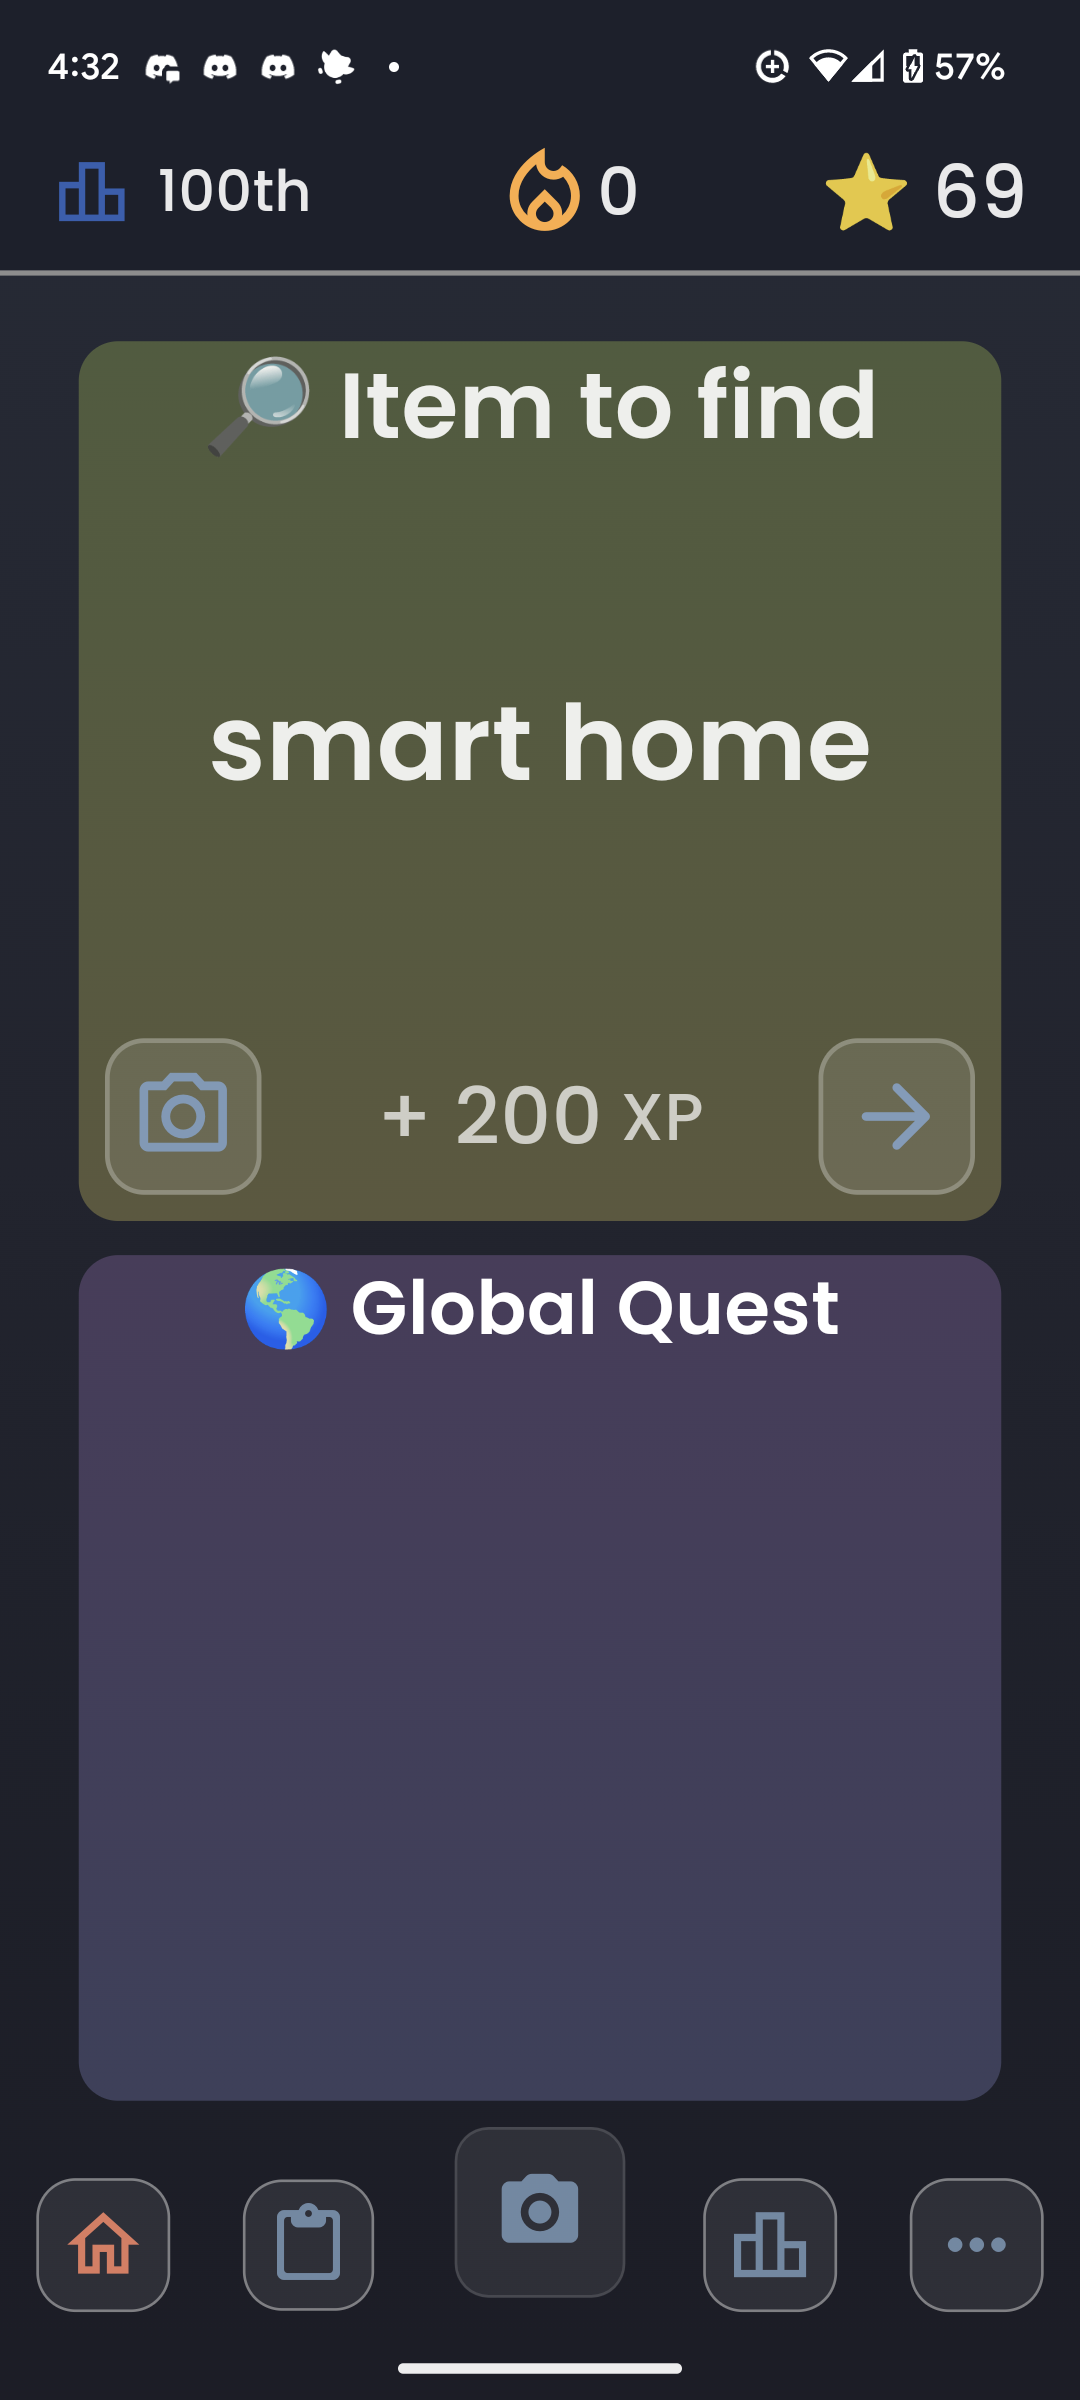
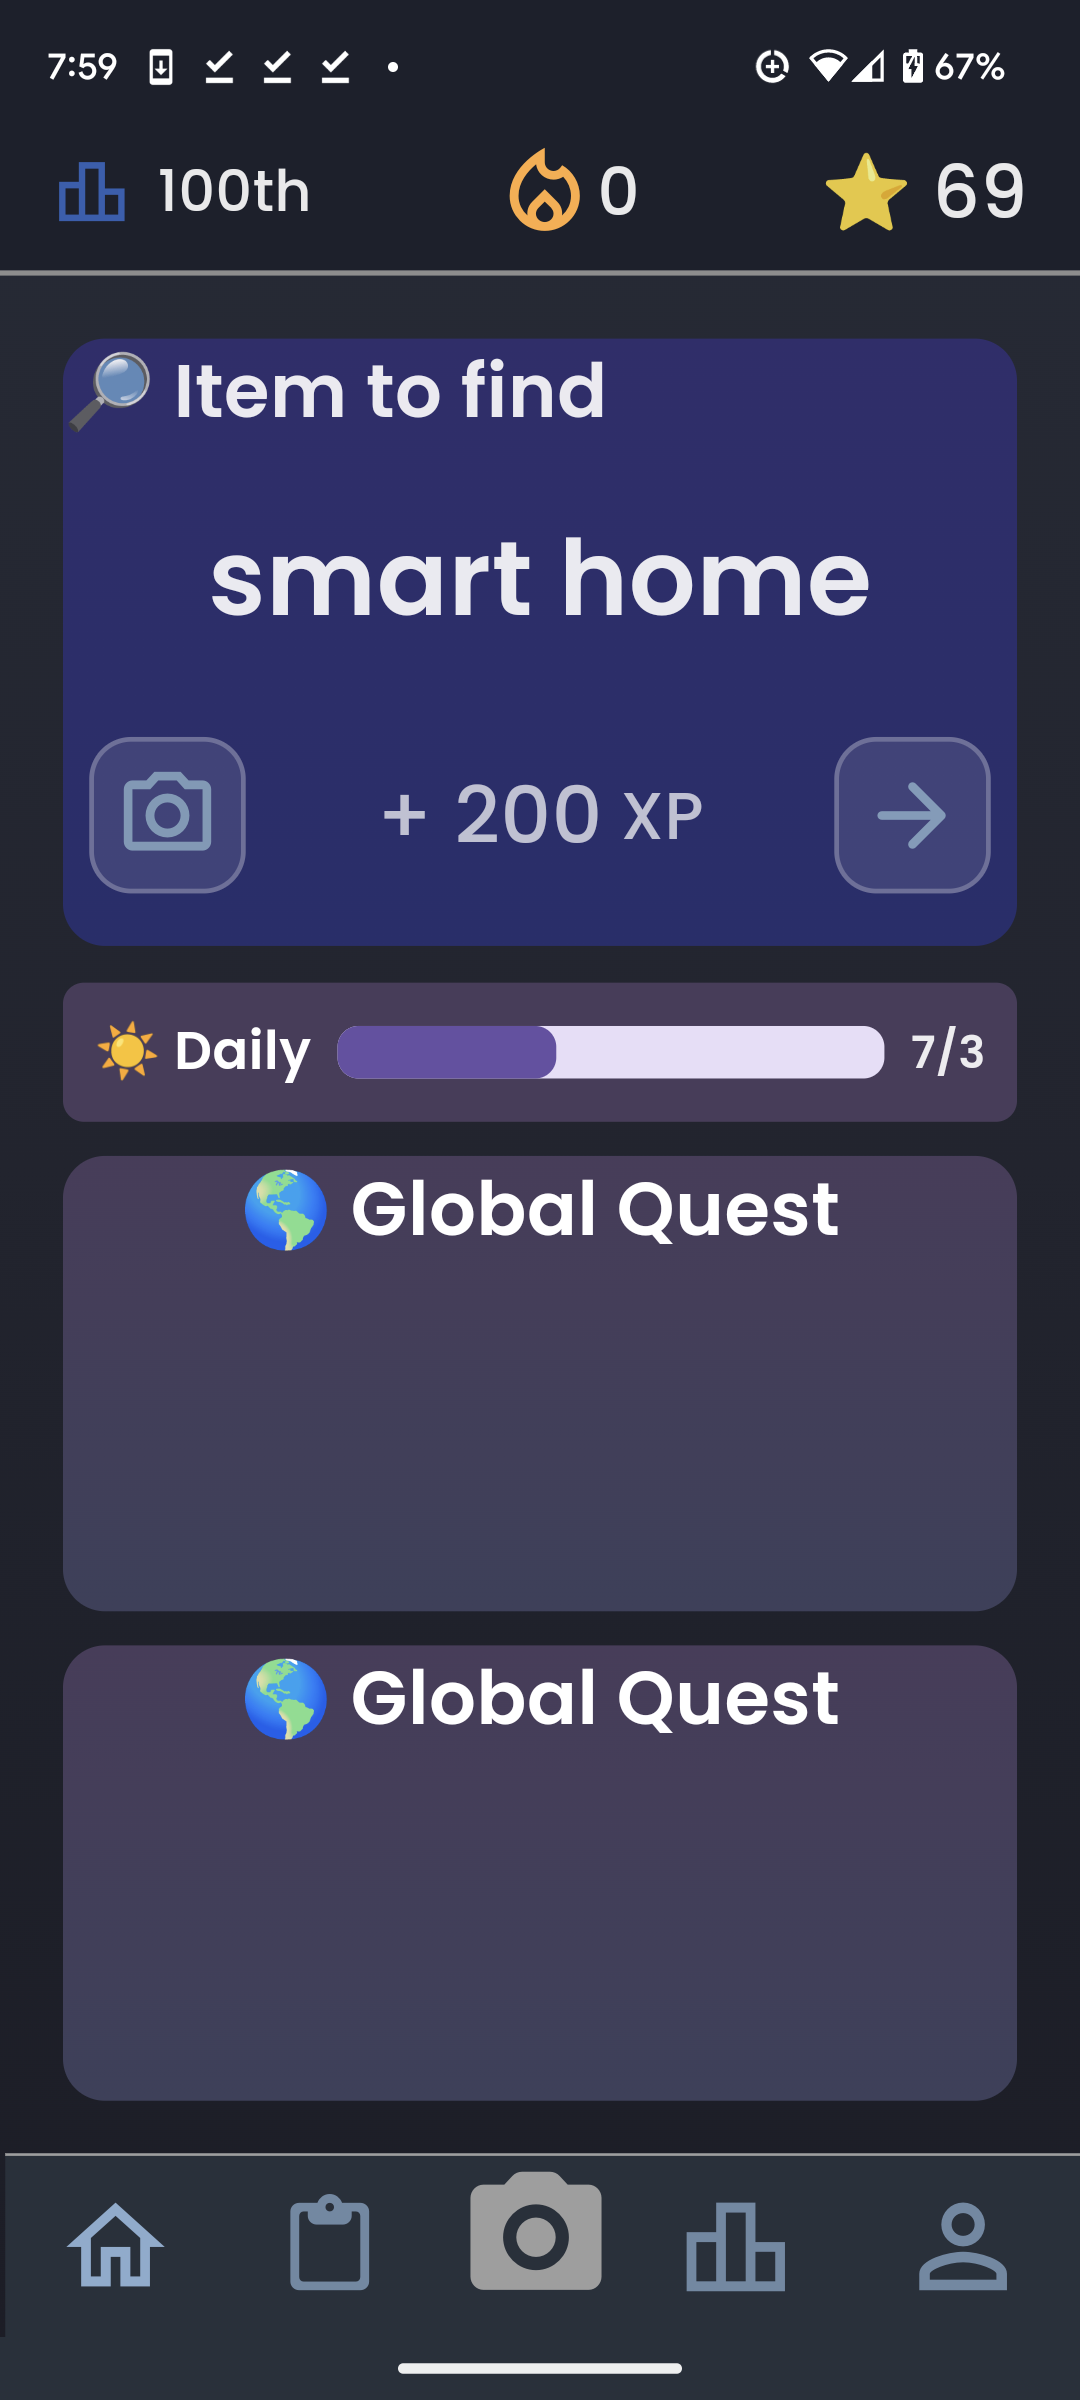
remade collect item widget

diff --git a/lib/pages/homePage/widgets/collectItemWidget.dart b/lib/pages/homePage/widgets/collectItemWidget.dart
@@ -6,9 +6,11 @@ import 'package:collect_the_world/globals/globalScripts/systems/itemToFindUpdate
 import 'package:collect_the_world/globals/globalWidgets/attentionWidget/attentionWidget.dart';
 import 'package:collect_the_world/globals/globalWidgets/loadingWidget.dart';
 import 'package:collect_the_world/pages/homePage/cameraScene/pages/cameraScene.dart';
-import 'package:collect_the_world/globals/globalScripts/cameraController.dart' as cam;
+import 'package:collect_the_world/globals/globalScripts/cameraController.dart'
+    as cam;
 import 'package:collect_the_world/globals/globalWidgets/baseWidget/baseWidget.dart';
 import 'package:collect_the_world/pages/homePage/contentContainer.dart';
+import 'package:collect_the_world/pages/homePage/widgets/dailyItems.dart';
 import 'package:collect_the_world/popups/conformationPopup/conformationPopup.dart';
 import 'package:flutter/cupertino.dart';
 import 'package:flutter/foundation.dart';
@@ -16,17 +18,12 @@ import 'package:flutter/material.dart';
 import 'package:collect_the_world/globals/globalKeys.dart' as globalKeys;
 import 'package:provider/provider.dart';
 
-
 class CollectItemWidget extends StatefulWidget {
   @override
   CollectItemWidgetState createState() => CollectItemWidgetState();
 }
 
-
-
 class CollectItemWidgetState extends State<CollectItemWidget> {
-  
-
   String itemName = "";
   bool loaded = false;
 
@@ -43,93 +40,83 @@ class CollectItemWidgetState extends State<CollectItemWidget> {
   @override
   Widget build(BuildContext context) {
     return Expanded(
-      child: Container(
         child: AttentionWidget(
             child: Column(
-          children: [
-            Row(
-              mainAxisAlignment: MainAxisAlignment.start,
-              children: [
-                Container(
-                  margin: EdgeInsets.only(),
-                  child: Text("🔎 Item to find",
-                      textScaler: const TextScaler.linear(2),
-                      style: TextStyle(color: Colors.white.withOpacity(0.9))),
-                ),
-              ],
-            ),
-            Expanded(
-              child: Center(
-                  child: loaded
-                      ? Container(
-                        
-                          margin: const EdgeInsets.all(20),
-                          child: AutoSizeText(
-                            maxLines: 1,
-                            itemName,
-                            
-                            style: TextStyle(
-                                fontSize: 40,
-                                color: Colors.white.withOpacity(0.9),
-                                fontWeight: FontWeight.w600),
-                                
-                          ))
-                      : const Loadingwidget(isVisible: true)),
-            ),
-            Container(
-              margin: const EdgeInsets.all(10),
-              alignment: Alignment.bottomCenter,
-              child: Row(
-                mainAxisAlignment: MainAxisAlignment.spaceBetween,
+      crossAxisAlignment: CrossAxisAlignment.start,
+      children: [
+        Container(
+            margin: const EdgeInsets.fromLTRB(18, 18, 0, 8),
+            child: Text(
+              "🔎Item to find",
+              style: TextStyle(
+                  color: Colors.white.withOpacity(0.85),
+                  fontFamily: "Poppins-medium",
+                  fontSize: 25,
+                  fontWeight: FontWeight.w600),
+            )),
+        Container(
+          margin: const EdgeInsets.symmetric(horizontal: 18),
+          child: Row(
+            mainAxisAlignment: MainAxisAlignment.spaceBetween,
+            crossAxisAlignment: CrossAxisAlignment.start,
+            children: [
+              Column(
                 children: [
                   Container(
-                    decoration: BoxDecoration(
-                        color: Colors.white10,
-                        borderRadius: BorderRadius.circular(16),
-                        border: Border.all(color: Colors.white24, width: 1.8)),
-                    child: IconButton(
-                        onPressed: () => {changeToCameraScene(context)},
-                        icon: const Icon(
-                          Icons.camera_alt_outlined,
-                          color: Color.fromRGBO(124, 154, 184, 1),
-                          size: 40,
-                        )),
-                  ),
-                  const Row(
-                    children: [
-                      Text(
-                        "+ 200",
-                        style: TextStyle(color: Colors.white70, fontSize: 30, fontFamily: 'Poppins-Medium'),
-                      ),
-                      Text(
-                        " XP",
-                        style: TextStyle(color: Colors.white70, fontSize: 25, fontFamily: 'Poppins-Medium'),
-                      ),
-                    ],
+                    margin: EdgeInsets.only(top: 4),
+                    child: Text(
+                      itemName,
+                      style: TextStyle(
+                          color: Colors.white.withOpacity(0.9),
+                          fontWeight: FontWeight.w600,
+                          fontSize: 30),
+                    ),
                   ),
                   Container(
-                      decoration: BoxDecoration(
-                          color: Colors.white10,
-                          borderRadius: BorderRadius.circular(16),
-                          border: Border.all(color: Colors.white24, width: 1.8)),
-                      child: IconButton(
-                          onPressed: () => {
-                            print("hello world"),
-                            Provider.of<PopupNotifier>(context, listen: false).appear()
-                          },
-                          icon: const Icon(
-                            Icons.arrow_forward_rounded,
-                            color: Color.fromRGBO(126, 156, 187, 1),
-                            size: 40,
-                          ))),
+                    margin: EdgeInsets.fromLTRB(0, 16, 0, 8),
+                    width: 110,
+                    decoration: BoxDecoration(
+                        gradient: const LinearGradient(
+                            begin: Alignment.centerLeft,
+                            end: Alignment.centerRight,
+                            colors: [
+                              Color.fromRGBO(107, 82, 165, 1),
+                              Color.fromRGBO(89, 68, 139, 1)
+                            ]),
+                        borderRadius: BorderRadius.circular(16)),
+                    child: TextButton(
+                      onPressed: () => {},
+                      child: const Text(
+                        "Skip item",
+                        style: TextStyle(
+                            color: Colors.white,
+                            fontSize: 15),
+                      ),
+                    ),
+                  )
                 ],
               ),
-            ),
-          ],
-        )),
-      ),
-    );
+              Container(
+                width: 85,
+                height: 85,
+                decoration: BoxDecoration(
+                    borderRadius: BorderRadius.circular(50),
+                    color: Colors.pink[50]),
+                child: IconButton(
+                    onPressed: () => changeToCameraScene(context),
+                    icon: const Icon(
+                      Icons.camera_alt_outlined,
+                      size: 50,
+                    )),
+              )
+            ],
+          ),
+        )
+      ],
+    )));
   }
+
+  //Provider.of<PopupNotifier>(context, listen: false).appear()
   void changeToCameraScene(context) async {
     var newcontoller = await cam.initCamera();
     Navigator.push(

diff --git a/lib/pages/homePage/widgets/dailyItems.dart b/lib/pages/homePage/widgets/dailyItems.dart
@@ -1,0 +1,57 @@
+import 'package:flutter/cupertino.dart';
+import 'package:flutter/material.dart';
+
+class DailyItems extends StatelessWidget {
+  final int itemCollectCount;
+
+  const DailyItems({super.key, required this.itemCollectCount});
+
+  @override
+  Widget build(BuildContext context) {
+    return Container(
+      margin: const EdgeInsets.only(top: 14),
+      decoration: BoxDecoration(
+          borderRadius: BorderRadius.circular(8),
+          color: const Color.fromRGBO(73, 61, 91, 1)),
+      child: Container(
+        margin: const EdgeInsets.all(12),
+        child: Column(
+          children: [
+            Row(
+              mainAxisAlignment: MainAxisAlignment.spaceBetween,
+              children: [
+                const Text(
+                  "☀ Daily",
+                  style: TextStyle(
+                      color: Colors.white,
+                      fontWeight: FontWeight.w500,
+                      fontSize: 20),
+                ),
+                const SizedBox(
+                  width: 10,
+                ),
+                Expanded(
+                    child: LinearProgressIndicator(
+                  borderRadius: BorderRadius.circular(8),
+                  semanticsLabel: "hello world",
+                  value: 0.4,
+                  minHeight: 20,
+                )),
+                const SizedBox(
+                  width: 10,
+                ),
+                Text(
+                  "7/$itemCollectCount",
+                  style: TextStyle(
+                      color: Colors.white.withOpacity(0.9),
+                      fontWeight: FontWeight.w100,
+                      fontSize: 17),
+                )
+              ],
+            ),
+          ],
+        ),
+      ),
+    );
+  }
+}

diff --git a/lib/pages/homePage/contentContainer.dart b/lib/pages/homePage/contentContainer.dart
@@ -1,6 +1,8 @@
 import 'package:collect_the_world/pages/homePage/widgets/collectItemWidget.dart';
+import 'package:collect_the_world/pages/homePage/widgets/dailyItems.dart';
 import 'package:collect_the_world/pages/homePage/widgets/globalTask.dart';
 import 'package:flutter/cupertino.dart';
+import 'package:flutter/material.dart';
 
 class ContentContainer extends StatelessWidget {
   @override
@@ -9,9 +11,23 @@ class ContentContainer extends StatelessWidget {
       margin: const EdgeInsets.fromLTRB(24, 129, 24, 90),
       child: Column(
         children: [
-          CollectItemWidget(),
-          GlobalTask(),
-          GlobalTask(),
+          Expanded(
+              flex: 3,
+              child: Column(
+                children: [
+                  CollectItemWidget(),
+                  const DailyItems(itemCollectCount: 3)
+                ],
+              )),
+          Expanded(
+            flex: 5,
+            child: Column(
+              children: [
+                GlobalTask(),
+                GlobalTask(),
+              ],
+            ),
+          ),
         ],
       ),
     );

diff --git a/lib/footer/footerMain.dart b/lib/footer/footerMain.dart
@@ -26,7 +26,7 @@ class Footer extends StatelessWidget {
             IconButton(
               iconSize: 45,
               icon: const Icon(Icons.home_outlined,
-                  color: Color.fromRGBO(110, 137, 164, 1)),
+                  color: Color.fromRGBO(138, 172, 206, 1)),
               onPressed: () => {
                 Haptics.vibrate(HapticsType.light),
                 Navigator.push(
@@ -43,9 +43,9 @@ class Footer extends StatelessWidget {
               },
             ),
             IconButton(
-              iconSize: 45,
+              iconSize: 40,
               icon: const Icon(Icons.paste_rounded,
-                  color: Color.fromRGBO(110, 137, 164, 1)),
+                color: Color.fromRGBO(110, 137, 164, 1)),
               onPressed: () => {
                 Haptics.vibrate(HapticsType.light),
                 Navigator.push(

diff --git a/lib/globals/globalWidgets/attentionWidget/attentionWidget.dart b/lib/globals/globalWidgets/attentionWidget/attentionWidget.dart
@@ -12,14 +12,15 @@ class AttentionWidget extends StatelessWidget {
   @override
   Widget build(BuildContext context) {
     return Container(
+      padding: EdgeInsets.only(bottom: 10),
       decoration: BoxDecoration(
-          borderRadius: BorderRadius.circular(8),
+          borderRadius: BorderRadius.circular(16),
           gradient: const LinearGradient(
             begin: Alignment.topCenter,
             end: Alignment.bottomCenter,
             colors: [
-              Color.fromRGBO(29, 170, 180, 1),
-              Color.fromRGBO(24, 127, 136, 1),
+              Color.fromRGBO(48, 46, 109, 1),
+              Color.fromRGBO(40, 46, 109, 1),
             ],
           )),
       child: child,

diff --git a/lib/footer/cameraButton.dart b/lib/footer/cameraButton.dart
@@ -35,13 +35,15 @@ class CameraButtonState extends State<CameraButtonFooter> {
   @override
   Widget build(BuildContext context) {
     return Container(
+      margin: const EdgeInsets.fromLTRB(0, 10, 5, 0),
         child: IconButton(
-          iconSize: 60,
+          alignment: Alignment.bottomCenter,
+          iconSize: 55,
           onPressed: () {
             loadCameraScene();
           },
-          icon: const Icon(Icons.camera_alt_rounded),
-          color: Colors.grey, // Icon color
+          icon: const Icon(Icons.camera_alt_outlined),
+          color: const Color.fromARGB(255, 163, 195, 230), // Icon color
         ));
   }
 

diff --git a/lib/globals/globalWidgets/baseWidget/baseWidget.dart b/lib/globals/globalWidgets/baseWidget/baseWidget.dart
@@ -13,7 +13,7 @@ class baseWidget extends StatelessWidget {
   Widget build(BuildContext context) {
     return Container(
       decoration: BoxDecoration(
-          borderRadius: BorderRadius.circular(8),
+          borderRadius: BorderRadius.circular(16),
           gradient: const LinearGradient(
             begin: Alignment.topCenter,
             end: Alignment.bottomCenter,
